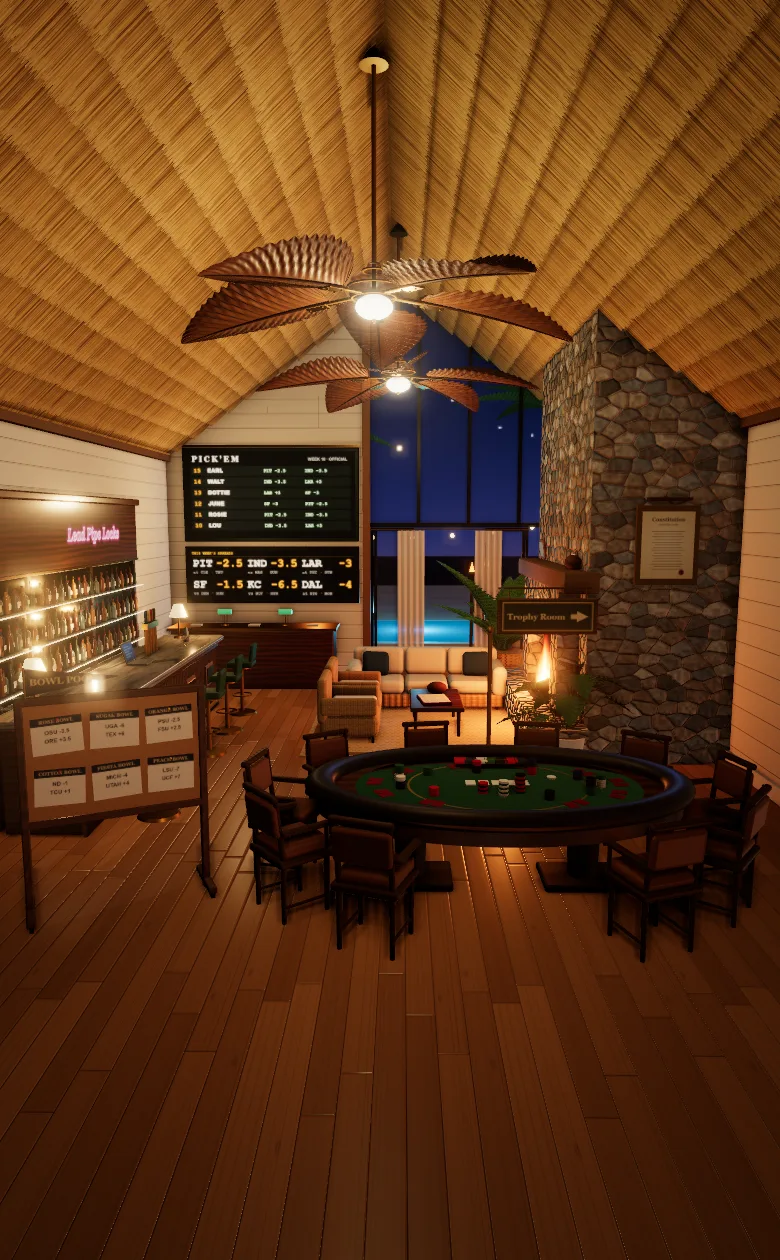
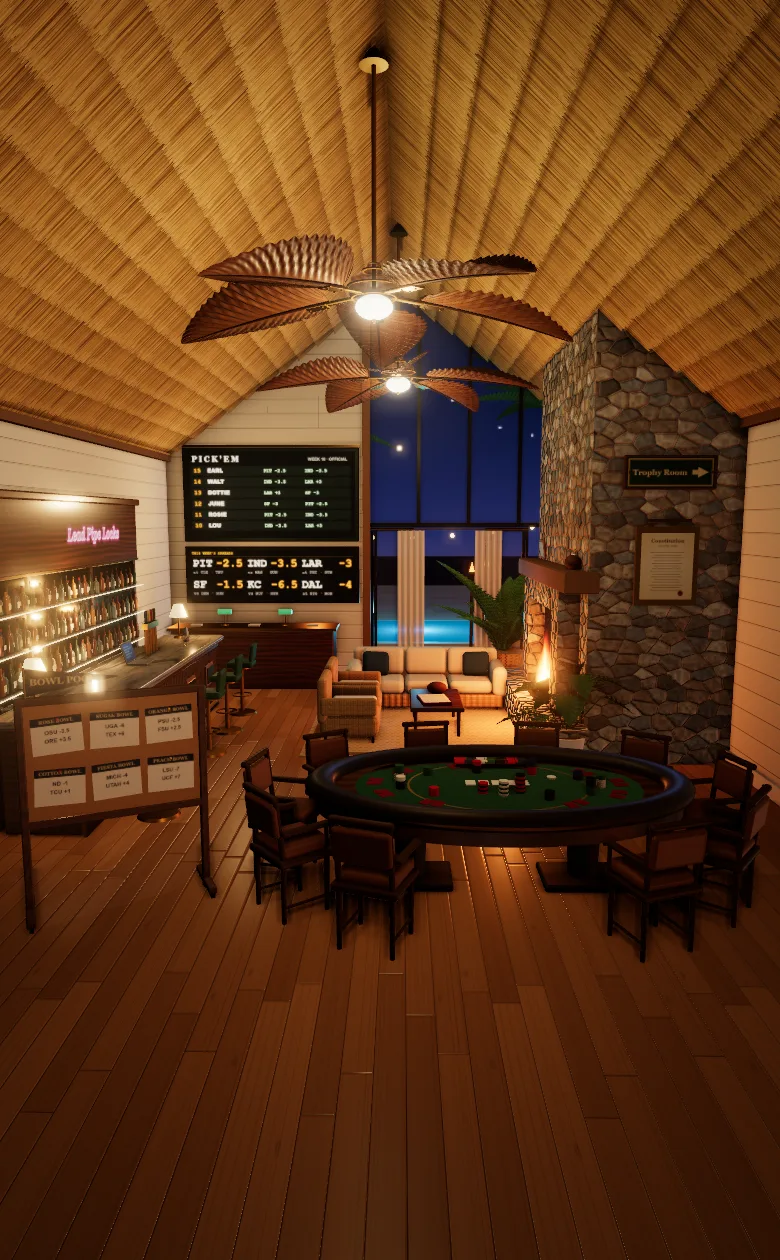
Lab clubhouse room: the Trophy Room sign on the chimney above the constitution

Changed region(s): [[0.8, 0.3405, 0.9231, 0.4952], [0.6154, 0.4643, 0.7692, 0.5881]]

diff --git a/tools/clubhouse-room/room.js b/tools/clubhouse-room/room.js
@@ -6,8 +6,8 @@
 //  - Back wall, right: glass to the thatch, the sliding doors standing open onto the pool patio, palms, tiki torches and the sea.
 //  - Left wall: the bar running down the room (fluted walnut, marble, brass), leather stools, a mirrored back bar of bottles and
 //    glassware under the neon, the plaques along its front, the laptop on top (the record book is on the lounge table).
-//  - Right wall: a grand floor-to-thatch stone chimney (the fire lit at night), the constitution framed on its near face, a painted
-//    Trophy Room sign on a brass post by it, and the lounge in front, set clear of the aisle.
+//  - Right wall: a grand floor-to-thatch stone chimney (the fire lit at night), a painted Trophy Room sign on its near face with the
+//    constitution framed under it, and the lounge in front, set clear of the aisle.
 //  - Middle, forward: a long oval Survivor poker table with a chair for every player. The floor in front of it is the way in.
 //    From Dec 7 the Bowl Pool's board stands at the front left.
 // Units are metres: x left to right, z from the front wall (0) to the back (-RD).
@@ -378,9 +378,9 @@ export async function buildRoom(q) {
   add(fire, box(0.005, 0.22, 0.3), std(0x9fc4dd), [X1 - CD - 0.04, 2.54, FZ - 1.3], { cast: false, rot: [0, 0, 0.12] });
   const charter = group("constitution");
   const CX = X1 - CD / 2, CZ = FZ + 1.8;
-  add(charter, box(0.74, 0.94, 0.06), std(0xa8823a, { metalness: 0.6, roughness: 0.35 }), [CX, 2.7, CZ + 0.03]);
-  add(charter, new THREE.PlaneGeometry(0.62, 0.79), new THREE.MeshStandardMaterial({ map: parchment(), roughness: 0.9 }), [CX, 2.7, CZ + 0.065], { cast: false });
-  add(charter, box(0.5, 0.04, 0.12), brass, [CX, 3.24, CZ + 0.07]);
+  add(charter, box(0.74, 0.94, 0.06), std(0xa8823a, { metalness: 0.6, roughness: 0.35 }), [CX, 2.45, CZ + 0.03]);
+  add(charter, new THREE.PlaneGeometry(0.62, 0.79), new THREE.MeshStandardMaterial({ map: parchment(), roughness: 0.9 }), [CX, 2.45, CZ + 0.065], { cast: false });
+  add(charter, box(0.5, 0.04, 0.12), brass, [CX, 2.99, CZ + 0.07]);
   // The lounge by the fire, kept clear of the way through: a linen sofa facing you from the far side, two cane armchairs facing the
   // fire, a low table between; a clear aisle runs past it along the bar and on to the open doors.
   add(room, box(3.3, 0.012, 3.3), new THREE.MeshStandardMaterial({ map: jute(), roughness: 1 }), [0.5, 0.006, FZ - 0.1], { cast: false });
@@ -409,7 +409,7 @@ export async function buildRoom(q) {
   add(record, new THREE.PlaneGeometry(0.52, 0.38), new THREE.MeshStandardMaterial({ map: bookPages(), roughness: 0.9 }), [0.62, 0.484, FZ + 0.25], { cast: false, rot: [-Math.PI / 2, 0, Math.PI / 2 + 0.15] });
   const tableBall = add(room, new THREE.SphereGeometry(0.1, 20, 14), std(0x6b3a1e, { roughness: 0.6 }), [0.68, 0.52, FZ - 0.3]); tableBall.scale.set(1.5, 0.92, 0.92);
 
-  // ----- the way to the Trophy Room: a painted wooden sign on a brass post by the chimney, an arrow pointing on past the fire. It
+  // ----- the way to the Trophy Room: a painted wooden sign on the chimney above the constitution, an arrow pointing on past the fire. It
   // opens the Trophy Room as it is today (less the stats).
   const trophies = group("trophies");
   const signFace = (() => {
@@ -419,15 +419,11 @@ export async function buildRoom(q) {
     g.beginPath(); g.moveTo(520, 72); g.lineTo(596, 110); g.lineTo(520, 148); g.lineTo(520, 126); g.lineTo(478, 126); g.lineTo(478, 94); g.lineTo(520, 94); g.closePath(); g.fill();
     return texture(c);
   })();
-  const SGX = 1.75, SGZ = -7.2;
-  add(trophies, rbox(1.1, 0.4, 0.05, 0.02), m.walnut, [SGX, 1.95, SGZ]);
-  add(trophies, new THREE.PlaneGeometry(1.02, 0.35), new THREE.MeshStandardMaterial({ map: signFace, roughness: 0.6 }), [SGX, 1.95, SGZ + 0.026], { cast: false });
-  add(trophies, cyl(0.025, 0.025, 1.75, 12), brass, [SGX - 0.62, 0.9, SGZ]);
-  add(trophies, cyl(0.16, 0.18, 0.04, 24), brass, [SGX - 0.62, 0.02, SGZ]);
-  add(trophies, new THREE.SphereGeometry(0.04, 12, 10), brass, [SGX - 0.62, 1.8, SGZ]);
-  for (const dx of [-0.42, 0.42]) add(trophies, cyl(0.006, 0.006, 0.12, 6), brass, [SGX + dx, 2.2, SGZ], { cast: false });
-  add(trophies, box(0.95, 0.02, 0.02), brass, [SGX, 2.26, SGZ], { cast: false });
-  add(trophies, box(0.02, 0.02, 0.02), brass, [SGX - 0.53, 2.26, SGZ], { cast: false });
+  // fixed to the chimney's near face, above the constitution
+  const SGX = X1 - CD / 2, SGY = 3.55, SGZ = FZ + 1.8 + 0.03;
+  add(trophies, rbox(1.1, 0.4, 0.05, 0.02), m.walnut, [SGX, SGY, SGZ]);
+  add(trophies, new THREE.PlaneGeometry(1.02, 0.35), new THREE.MeshStandardMaterial({ map: signFace, roughness: 0.6 }), [SGX, SGY, SGZ + 0.026], { cast: false });
+  for (const dx of [-0.48, 0.48]) add(trophies, cyl(0.018, 0.018, 0.02, 12), brass, [SGX + dx, SGY, SGZ + 0.03], { rot: [Math.PI / 2, 0, 0], cast: false });
 
   // ----- Survivor: a long oval poker table, forward in the room and well clear of the fire, with a seat for every player (ten) and
   // the dealer's place at the far side. Built as a real one is: a padded leather armrest round a walnut racetrack, felt with a gilt

diff --git a/src/components/lab/lab-clubhouse.tsx b/src/components/lab/lab-clubhouse.tsx
@@ -16,8 +16,8 @@ import ROOM_PICTURES from "@/lib/lab-clubhouse-room.json";
  *    the poker table, along the bar, round the lounge and out through the open doors. Tap anything to go there: the wall that faces
  *    you where picks are made (the Big Board, under it one wide board of the week's spreads, the counter; no sign says
  *    "sportsbook"), the bar down the left wall (the plaques along its front, the laptop on top: the pool chat, a
- *    mail sign when there's a new message), the stone chimney on the right (the fire lit at night, the constitution framed on it)
- *    with a Trophy Room sign by it (it opens today's turning table and banners), the lounge by the fire (the record book open on
+ *    mail sign when there's a new message), the stone chimney on the right (the fire lit at night, a Trophy Room sign on it above the
+ *    framed constitution) (it opens today's turning table and banners), the lounge by the fire (the record book open on
  *    its table), the oval Survivor poker table forward in the middle with a chair for every player, and from Dec 7 the Bowl Pool's
  *    bulletin board, wheeled in at the front left.
  *  - Only a few things carry a label (where their news is worth a glance); "Show labels" names everything, and a plain list of the
@@ -133,7 +133,7 @@ const SPOTS: ReadonlyArray<{ spot: string; room: Room; name: string; tag?: strin
   { spot: "bowl", room: "bowl", name: "Bowl Pool", label: "below", always: true },
   { spot: "record", room: "record", name: "Record book", tag: "Records", label: "below" },
   { spot: "chat", room: "chat", name: "Pool chat", tag: "Chat", label: "below" },
-  { spot: "constitution", room: "constitution", name: "Constitution", label: "above" },
+  { spot: "constitution", room: "constitution", name: "Constitution", label: "below" },
 ];
 
 type Season = "regular" | "bowls";

diff --git a/docs/VIEW_STATES.md b/docs/VIEW_STATES.md
@@ -157,7 +157,7 @@ Shot as the chat element alone, at phone 390 and desktop 1280, day and night. Fo
 | "Notifications on this phone" on Notifications (every player): `off`, `on`, `blocked`, `iphone-tab` (an iPhone browser tab, told to add the app to the Home Screen) and `no-support`, day at phone and desktop width, plus `on` at night; behavior tests follow the taps (turn on: permission, key, save; test; turn off) and show the section to a player who is not the Commissioner too (`phone-notifications.visual.spec.ts`) | `/profile` |
 | In-app "Turn on notifications" banner (Home Screen app, signed in, notifications not on yet): `offer` day at phone and desktop, night at phone, and `on` after one tap; behavior tests: one tap asks the phone and saves it, a "no" says where to turn them on later, Not now keeps it away after reopening, and no banner in a browser tab, when already on, when blocked, on Notifications, or before sign-in (`notifications-banner.visual.spec.ts`) | any page in the app |
 | Workshop Lab (`/admin/workshop/lab`, Commissioner only): the Showroom and Lab tabs (Lab green), one line "Try-outs before they reach players. Nothing here changes the pool.", a shelf of try-out chips (Tote board, Pad skins, Clubhouse, Survivor table, Feel test; the choice kept in `?try=` and on this device), then the chosen try-out (shot here with the Feel test); the whole page, phone and desktop, day and night (`workshop.visual.spec.ts`); a player sees only "Commissioner only." and the tabs, and the Showroom and Lab tabs lead to each other (`haptic-feel-test.visual.spec.ts`) | `/admin/workshop/lab` as the Commissioner |
-| Lab try-out, Clubhouse: the whole pool as one grand beach bungalow, phone first, sample league only. **The room** is a 3D picture (rendered by `tools/clubhouse-room`; by day, and at night with the pool lit) seen from just inside, looking down the room; what has to be read hangs on the wall that faces the viewer, nothing is turned to the camera by a trick. The room is lit as a real one is (late sun raking through the glass and across the oak floor, soft shadow wherever two things meet, the room reflected in its own brass and floor), and there is room to walk: in past the poker table, along the bar, round the lounge and out through the open doors. A thatched beach-hut ceiling laid in courses (no beams) with two big palm-leaf fans, each blade a modelled leaf, each with a light; on the back wall, left, where picks are made, face on (the Big Board, under it one board of the week's spreads as wide as the wall in big type, the counter; no sign names it); on its right, glass to the thatch with the sliding doors standing open onto the pool patio, a linen sheer at each side, palms, tiki torches and the sea beyond; down the left wall the bar (a fluted walnut front on a brass kick plate, a marble top, green leather stools on brass, a back bar of walnut and antique mirror with three lit glass shelves of real bottles, glassware on the back counter and the neon above; plaques along its front, the laptop on top; the record book lies open on the lounge table); on the right a grand fieldstone chimney floor to thatch (the fire lit at night, laid but cold by day) with the constitution framed on its near face, and by it a painted Trophy Room sign on a brass post, its arrow pointing on past the fire; the lounge in front of the fire (a sofa, two cane armchairs, a low table) set clear of the aisle; forward in the middle, well clear of the fire, a long oval Survivor poker table built as a real one is (a padded leather armrest round a walnut racetrack, felt with a gilt betting line, two pedestals, the dealer's chip tray at the far side) with a proper poker chair for every player (ten: four legs, a padded leather seat and back, wooden arms), a hand dealt to each; and from Dec 7 the Bowl Pool's bulletin board on wheels at the left, beside the end of the bar and clear of the poker table, the bowl games pinned up as cards. The wall boards meet evenly at the corners. A tap spot (never smaller than 44px) lies over each: the picks wall opens the Window, the Big Board the Big Board, the Trophy Room sign the Trophy Room, the plaques on the bar the Plaques, the poker table the Survivor table; the record book, laptop (pool chat), constitution and Bowl Pool board open stand-ins for now. Only the Window, the Big Board and Survivor (and the Bowl Pool board) carry a label with a line of news; "Show labels" names everything. The laptop shows a mail sign when there's a new message; the picks wall glows while a pick is owed. Under the picture, the rooms as a plain list. **Your ticket** is pinned to the bottom of every clubhouse screen but the Window: a lamp per pick (lit once it is in) and the next deadline; it opens the Window. Every room has one "Back to Clubhouse" button and its name at the top. **Trophy Room:** exactly today's Trophy Room page without its stats: the turning table (its arrows turn it) and the banners of the trophy at the front, with the sample champions. **Plaques:** a quiet engraved brass plaque per season, the season countdown plate, and A champion is crowned. Pictures: the room (as it opens, with labels, from Dec 7, all picks in with nothing new), the Big Board, the Window, the Trophy Room and the Plaques' two scenes, phone and desktop by day, phone at night; behaviour tests: every spot opens its room and comes back, spots are thumb-sized, the labels, mail sign, Bowl Pool board and room list, the pinned ticket; the Trophy Room's table turns by its arrows, hangs the front trophy's champions and shows nothing else, the plaques and pennant (`lab.visual.spec.ts`); data rules in `test/lab-clubhouse.test.mjs` | `/admin/workshop/lab?try=clubhouse` |
+| Lab try-out, Clubhouse: the whole pool as one grand beach bungalow, phone first, sample league only. **The room** is a 3D picture (rendered by `tools/clubhouse-room`; by day, and at night with the pool lit) seen from just inside, looking down the room; what has to be read hangs on the wall that faces the viewer, nothing is turned to the camera by a trick. The room is lit as a real one is (late sun raking through the glass and across the oak floor, soft shadow wherever two things meet, the room reflected in its own brass and floor), and there is room to walk: in past the poker table, along the bar, round the lounge and out through the open doors. A thatched beach-hut ceiling laid in courses (no beams) with two big palm-leaf fans, each blade a modelled leaf, each with a light; on the back wall, left, where picks are made, face on (the Big Board, under it one board of the week's spreads as wide as the wall in big type, the counter; no sign names it); on its right, glass to the thatch with the sliding doors standing open onto the pool patio, a linen sheer at each side, palms, tiki torches and the sea beyond; down the left wall the bar (a fluted walnut front on a brass kick plate, a marble top, green leather stools on brass, a back bar of walnut and antique mirror with three lit glass shelves of real bottles, glassware on the back counter and the neon above; plaques along its front, the laptop on top; the record book lies open on the lounge table); on the right a grand fieldstone chimney floor to thatch (the fire lit at night, laid but cold by day) with a painted Trophy Room sign fixed to its near face, its arrow pointing on past the fire, and the constitution framed under it; the lounge in front of the fire (a sofa, two cane armchairs, a low table) set clear of the aisle; forward in the middle, well clear of the fire, a long oval Survivor poker table built as a real one is (a padded leather armrest round a walnut racetrack, felt with a gilt betting line, two pedestals, the dealer's chip tray at the far side) with a proper poker chair for every player (ten: four legs, a padded leather seat and back, wooden arms), a hand dealt to each; and from Dec 7 the Bowl Pool's bulletin board on wheels at the left, beside the end of the bar and clear of the poker table, the bowl games pinned up as cards. The wall boards meet evenly at the corners. A tap spot (never smaller than 44px) lies over each: the picks wall opens the Window, the Big Board the Big Board, the Trophy Room sign the Trophy Room, the plaques on the bar the Plaques, the poker table the Survivor table; the record book, laptop (pool chat), constitution and Bowl Pool board open stand-ins for now. Only the Window, the Big Board and Survivor (and the Bowl Pool board) carry a label with a line of news; "Show labels" names everything. The laptop shows a mail sign when there's a new message; the picks wall glows while a pick is owed. Under the picture, the rooms as a plain list. **Your ticket** is pinned to the bottom of every clubhouse screen but the Window: a lamp per pick (lit once it is in) and the next deadline; it opens the Window. Every room has one "Back to Clubhouse" button and its name at the top. **Trophy Room:** exactly today's Trophy Room page without its stats: the turning table (its arrows turn it) and the banners of the trophy at the front, with the sample champions. **Plaques:** a quiet engraved brass plaque per season, the season countdown plate, and A champion is crowned. Pictures: the room (as it opens, with labels, from Dec 7, all picks in with nothing new), the Big Board, the Window, the Trophy Room and the Plaques' two scenes, phone and desktop by day, phone at night; behaviour tests: every spot opens its room and comes back, spots are thumb-sized, the labels, mail sign, Bowl Pool board and room list, the pinned ticket; the Trophy Room's table turns by its arrows, hangs the front trophy's champions and shows nothing else, the plaques and pennant (`lab.visual.spec.ts`); data rules in `test/lab-clubhouse.test.mjs` | `/admin/workshop/lab?try=clubhouse` |
 | Lab Lamp-lit switch (on the shelf, remembered on this device): at night the try-outs sit under one warm lamp (a pool of light from above with no visible edge, shadow around it, one warm paper tone, a glow on the felt and the clubhouse rooms); by day it only shows a note that it is a night look; Survivor table, Clubhouse and Pad skins, night, phone and desktop (`lab.visual.spec.ts`) | `/admin/workshop/lab` with Lamp-lit on |
 | Lab try-out, Survivor table (rebuilt to show everything the Survivor list shows): a week stepper (weeks 1 to 12, then Playoffs) and Before kickoff / Game day / Graded. The felt: AFC and NFC (side by side on a computer, stacked on a phone), each with its four divisions in the same order (East, North, South, West) and the division names in one column, so rows line up straight across; this week's chips (players' initials) on the teams taken; a losing box swept once graded; "6 of 10 alive"; a one-line key. Before kickoff another player's chip is face down on their seat, never on a team, and a player who has not picked shows NO PICK YET. Seats in standings order, dark once out with "OUT · WK n · TEAM"; the champion's seat crowned in week 12 ("Earl wins Survivor"); in the playoffs the felt is cleared. Tap a seat for every team used. List shows today's Survivor list from the same data. Pictures: week 7 Graded / Before kickoff / Game day, week 3, week 12 champion, playoffs (phone and desktop by day, phone at night) and the seat sheet; behaviour tests for every fact against the list, the champion and playoffs, and the divisions lining up (`lab.visual.spec.ts`) | `/admin/workshop/lab?try=survivor` |
 | Lab try-out, Tote board (first on the shelf): the clubhouse's two main pieces in the racetrack board's housing. **The Big Board** is everyone's picks in one place: today's Pad columns (wins, player, Pick 1, Pick 2; no place) plus a Survivor column of the real poker chips (face down until kickoff, greyed after a loss); each pick panel is team, line and a fixed lamp slot, so every W and L in a column shares one centre line; a pick made but not shown yet is dark lamps and a green IN. One tap on the board turns it to **Season standings** (POS with level players sharing a place, "T2"; player; wins; BACK from the leader): the standings fold into the board. Before kickoff / Game day / Graded. **The Window** is every pick a player makes, in one place: the week's games (two against the spread, a pick framed by a single gilt line), then Survivor's chips on a rack (used teams greyed "USED WK n", kicked-off games locked, one chip at a time), then one ticket (Pick 1, Pick 2, Survivor) and one Submit ("Submitted ✓"; a change afterwards asks to "Submit changes"). Picking / Game day / Out of Survivor (Survivor stays while the pool goes on, read only: "lost in week n", how many are still in) / Survivor decided (Survivor leaves the Window). Pictures: the Big Board before kickoff, on game day, graded and on its season face; the Window in each moment (phone and desktop by day, phone at night); behaviour tests: today's columns, hidden picks and Survivor chips until kickoff, W and L on one centre line, the season face, and the Window's picks, chip, ticket and Submit through every moment (`lab.visual.spec.ts`) | `/admin/workshop/lab?try=tote` |

diff --git a/docs/DECISION_LOG.md b/docs/DECISION_LOG.md
@@ -46,7 +46,7 @@ out of the back of the room into the open floor by the end of the bar, larger, w
 the night picture and cold by day. Night is the player's own day/night switch, not the clock.
 
 A fourth round (PR after #777): the side room for the trophies, set into a stepped wall, was not the owner's favourite; a painted
-Trophy Room sign with an arrow, by the chimney, now opens today's Trophy Room page (less the stats), and the chimney stands whole
+Trophy Room sign with an arrow, fixed to the chimney above the constitution, now opens today's Trophy Room page (less the stats), and the chimney stands whole
 on the right wall again. The Bowl Pool board is at the front left, where the owner first asked for it. The poker table moved forward,
 away from the fire, and was made more convincing (padded leather armrest, walnut racetrack, gilt betting line, two pedestals, the
 dealer's tray); its chairs were made lighter. The camera stepped back to make room at the front, and the Bowl board stands to the left beside the end of the bar, well clear of the poker table, whose chairs are now proper
